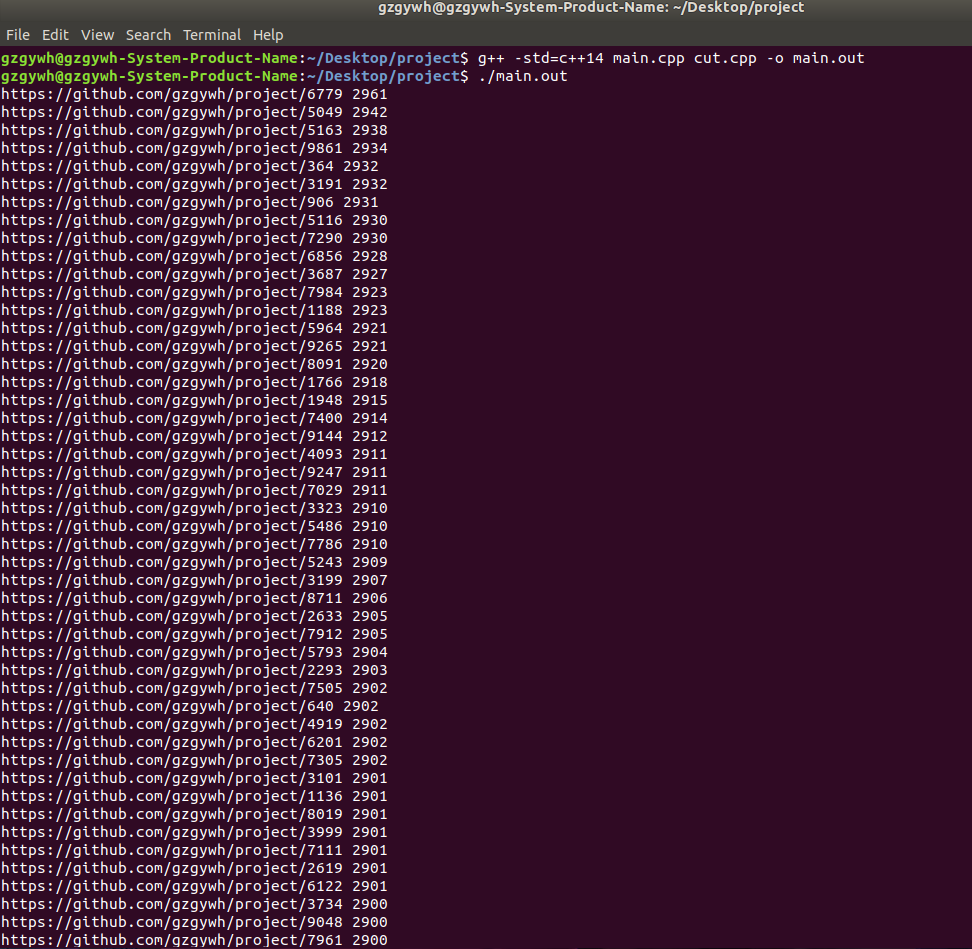
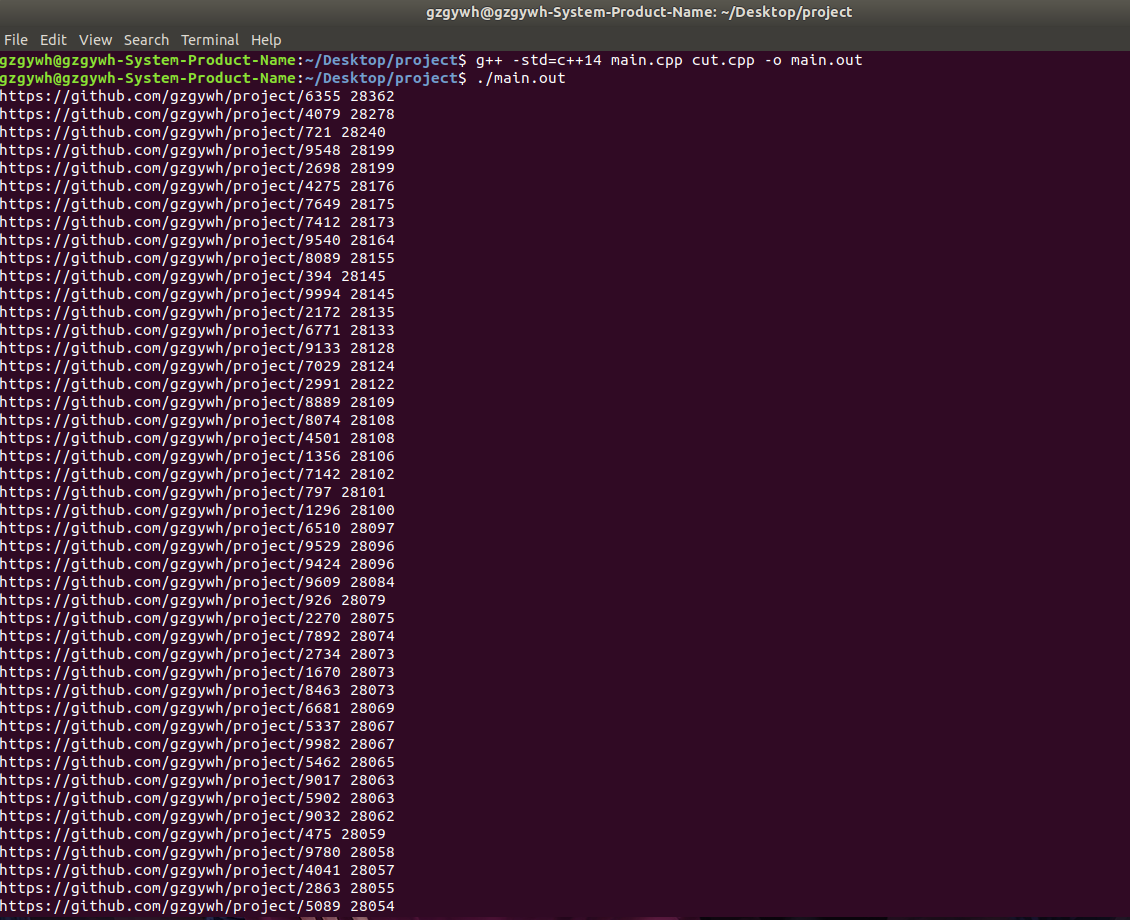
update

Changed region(s): [[0.0, 0.0, 1.0, 1.0], [0.9259, 0.9739, 0.9568, 1.0]]

diff --git a/cut.cpp b/cut.cpp
@@ -5,6 +5,7 @@
 using namespace std;
 typedef long long LL;
 
+//获取文件大小
 LL Filesize(string file_name){
     struct stat statbuff;
     stat(file_name.c_str(),&statbuff);
@@ -12,33 +13,32 @@ LL Filesize(string file_name){
     return size;
 }
 
-void Split(string filename, int &subfile, int file_size){
-    if(Filesize(filename) > file_size){
+//将大小超过size的文件切分成子文件
+void Split(string filename, int &subfile, int size){
+    if(Filesize(filename)>size){
         ifstream fin;
         fin.open(filename);
         if(!fin) return ;
+        string url;
         LL size = 0;
-        int len=filename.length()-4;
-        string pre=filename.substr(0, len-4) + "_";
+        string pre=filename.substr(0, filename.length()-4) + "_";
         ofstream fout;
         int cnt = 0;
-        string subname = pre + to_string((LL)cnt) + ".txt";
-        fout.open(subname,ios::ate);
+        string str = pre + to_string((LL)cnt) + ".txt";
+        fout.open(str,ios::ate);
         assert(fout.is_open());
-        string url;
-        while(getline(fin,url)){
-            int len= url.length();
-            //cout<<url<<endl;
-            if(size + len > file_size){
+        while(fin>>url){
+            int length = url.length();
+            if(size + length > size){
                 fout.close();
                 cnt++;
-                subname = pre + to_string((LL)(cnt)) + ".txt";
-                fout.open(subname,ios::ate);
+                str = pre + to_string((long long)(cnt)) + ".txt";
+                fout.open(str,ios::ate);
                 assert(fout.is_open());
                 size = 0;
             }
             fout << url << endl;
-            size += len;
+            size += length;
         }
         fout.close();
         fin.close();
@@ -46,18 +46,18 @@ void Split(string filename, int &subfile, int file_size){
     }
 }
 
-
+//统计小文件中每个URL出现的次数，同时叠加不同小文件中相同的URL
 void merge(string pre,int n,int topK){
     unordered_map<string,int> mp;
     for(int i = 0;i < n;i++){
-        string file_name = pre + to_string((LL)i) + ".txt";
+        string filename = pre + to_string((LL)i) + ".txt";
         ifstream fin;
-        fin.open(file_name);
+        fin.open(filename);
         assert(fin.is_open());
         string url;
-        while(getline(fin,url)){
+        while(fin>>url){
             string c;
-            getline(fin,c);
+            fin>>c;
             int count = atoi(c.c_str());
             //cout<<count<<endl;
             if(mp.find(url) != mp.end()) mp[url]+=count;
@@ -79,19 +79,19 @@ void merge(string pre,int n,int topK){
     fout.close();
 }
 
-void sortFiles(string source_file_name,int topK){
+//对小文件中的URL按照出现次数进行排序
+void sortFiles(string source,int topK){
     ifstream fin;
-    fin.open(source_file_name);
-    if(!fin) return;
+    fin.open(source);
+    if(!fin) return ;
     string url;
     unordered_map<string,int> mp;
-    while(getline(fin,url)){
+    while(fin>>url){
         if(mp.find(url) != mp.end()) mp[url]+=1;
         else mp[url]=1;
     }
     fin.close();
-
-    string sorted = "sorted_" + source_file_name;
+    string sorted = "sorted_" + source;
     ofstream fout(sorted,ios::app);
     multimap<int,string> f;
     for(auto v:mp) f.insert(pair<int,string>(v.second,v.first));
@@ -105,22 +105,21 @@ void sortFiles(string source_file_name,int topK){
     fout.close();
 }
 
-void solve(int file_num,int file_size,int topK){
-    for(int i = 0;i < file_num;i++){
-        string file_name = "Hash_" + to_string((LL)i) + ".txt";
+void solve(int filenum,int size,int topK){
+    for(int i = 0;i < filenum;i++){
+        string filename = "Hash" + to_string((LL)i) + ".txt";
         int subfile = 0;
-        Split(file_name,subfile,file_size);
-        if(subfile == 0)
-            sortFiles(file_name,topK);
+        Split(filename,subfile,size);
+        if(subfile == 0) sortFiles(filename,topK);
         else{
-            string prefile = file_name.substr(0, file_name.length()-4);
-            prefile +=  "_";
+            string prename = filename.substr(0, filename.length()-4);
+            prename += "_";
             for(int j = 0;j < subfile;j++){
-                string sub_file_name = prefile + to_string((LL)j) + ".txt";
+                string sub_file_name = prename + to_string((LL)j) + ".txt";
                 sortFiles(sub_file_name,topK);
             }
-            prefile = "sorted_" + prefile;
-            merge(prefile,subfile,topK);
+            prename = "sorted_" + prename;
+            merge(prename,subfile,topK);
         }
     }
 }

diff --git a/main.cpp b/main.cpp
@@ -10,12 +10,14 @@ struct P{
     string url;
     int cnt;
     friend bool operator<(P a,P b){
-        return a.cnt>b.cnt;  //小顶堆
+        return a.cnt>b.cnt;  //以cnt为关键字的小顶堆
     }
 };
 bool cmp(P x,P y){
     return x.cnt>y.cnt;
 }
+
+//字符串转化成整数
 int Rev(string str){
     int sum=0;
     for(int i=0;i<str.length();i++){
@@ -46,7 +48,7 @@ void Hash(string file_name,int num){
     ifstream fin;
     fin.open(file_name);
     if(!fin) return ;
-    while(getline(fin,url)){
+    while(fin>>url){
         unsigned int file_hash = ELFhash(url.c_str())%filenum;
         string resolved = "Hash_" + to_string((LL)file_hash) + ".txt";
         ofstream fout(resolved,ios::app);
@@ -61,7 +63,11 @@ int main()
     string file = "testdata.txt";
     Hash(file,filenum);
     solve(filenum,file_size,topK);
-
+    /*
+        建立一个以cnt为关键字的优先队列，然后在优先队列中只维护100个元素，
+        如果元素再有新的元素加入，则和优先队列中cnt最小的元素进行比较，如果
+        比堆顶元素的cnt大，则把堆顶出堆，把新元素插入堆中，否则，不做任何改变
+    */
     priority_queue<P>que;
     ifstream fin;
     string file_name="";
@@ -75,13 +81,10 @@ int main()
         while(fin>>url){
             string c="";
             fin>>c;
-            P tmp;
-            tmp.cnt = Rev(c);
-            tmp.url=url;
+            P tmp;tmp.cnt = Rev(c);tmp.url=url;
            // cout<<tmp.url<<" "<<tmp.cnt<<endl;
-            if(que.size()<topK){
-                que.push(tmp);
-            }else{
+            if(que.size()<topK) que.push(tmp);
+            else{
                 P x=que.top();
                 if(x.cnt>=tmp.cnt) continue;
                 else{
@@ -97,9 +100,9 @@ int main()
         P t=que.top(); que.pop();
         v.push_back(t);
     }
+
+    //对出现次数top100的元素进行排序
     sort(v.begin(),v.end(),cmp);
-    for(auto t:v){
-        cout<<t.url<<" "<<t.cnt<<endl;
-    }
+    for(auto t:v) cout<<t.url<<" "<<t.cnt<<endl;
     return 0;
 }

diff --git a/README.md b/README.md
@@ -14,15 +14,29 @@
 python size filename
 ```
 
-有2个可配置的参数。size为我要生成多大的数据，单位是GB(在程序内部做了换算)。filename为我要生成程序的名称，比如我要生成一个大小为1GB，名字为test的URL数据，命令如下：
+有2个可配置的参数。size为我要生成多大的数据，单位是GB(在程序内部做了换算)。filename为我要生成程序的名称，比如我要生成一个大小为10GB，名字为test的URL数据，命令如下：
 
 ```cc
-python 1 testdata.txt
+python 10 testdata.txt
 ```
 
 
 
 #### 设计思路
+
+因为数据量远远超过内存的大小，所以直接在内存中统计每个URL出现的次数肯定是不行的。所以我们必须将大文件切分成小文件，让有限内存的能够处理数据，然后对小文件分别进行统计后再将结果合并，取得其中出现次数Top100的URL。
+
+
+
+#### 具体实现
+
+1.使用EFLHash算法对原始文件中的URL进hash，因为使用的同一个Hash算法，所以相同的URL一定会被hash到同一个子文件
+
+2.统计小文件中每个URL出现的次数，并维护出前TopK个URL以及对应它出现的次数，这里可以先用unordered_map统计一遍每个单词出现的次数，然后用multimap比较一下出现的频次为这个数的URL有哪些，然后出现次数从大到小倒着扫一遍，并把这个结果另外存到一个文件中
+
+3.建立一个以cnt为关键字的优先队列，然后在优先队列中只维护100个元素，如果元素再有新的元素加入，则和优先队列中cnt最小的元素进行比较，如果比堆顶元素的cnt大，则把堆顶出堆，把新元素插入堆中，否则，不做任何改变。这样最后保证存在于优先队列当中的一定是出现次数Top100的URL
+
+4.最后将优先队列里面的元素取出，再按照cnt为关键字进行排序
 
 
 
@@ -36,6 +50,8 @@ g++ -std=c++14 main.cpp cut.cpp -o main.out
 
 
 #### 实验结果
+
+在这里，我们以10GB大小的数据做测试，生成URL的后缀范围为(1,9999)。同时，我们在控制台输出出现次数前100的url以及前对应的次数，并按照次数从大到小的顺序进行排序。实验结果如下图所示：
 
 ![](result.png)
 
